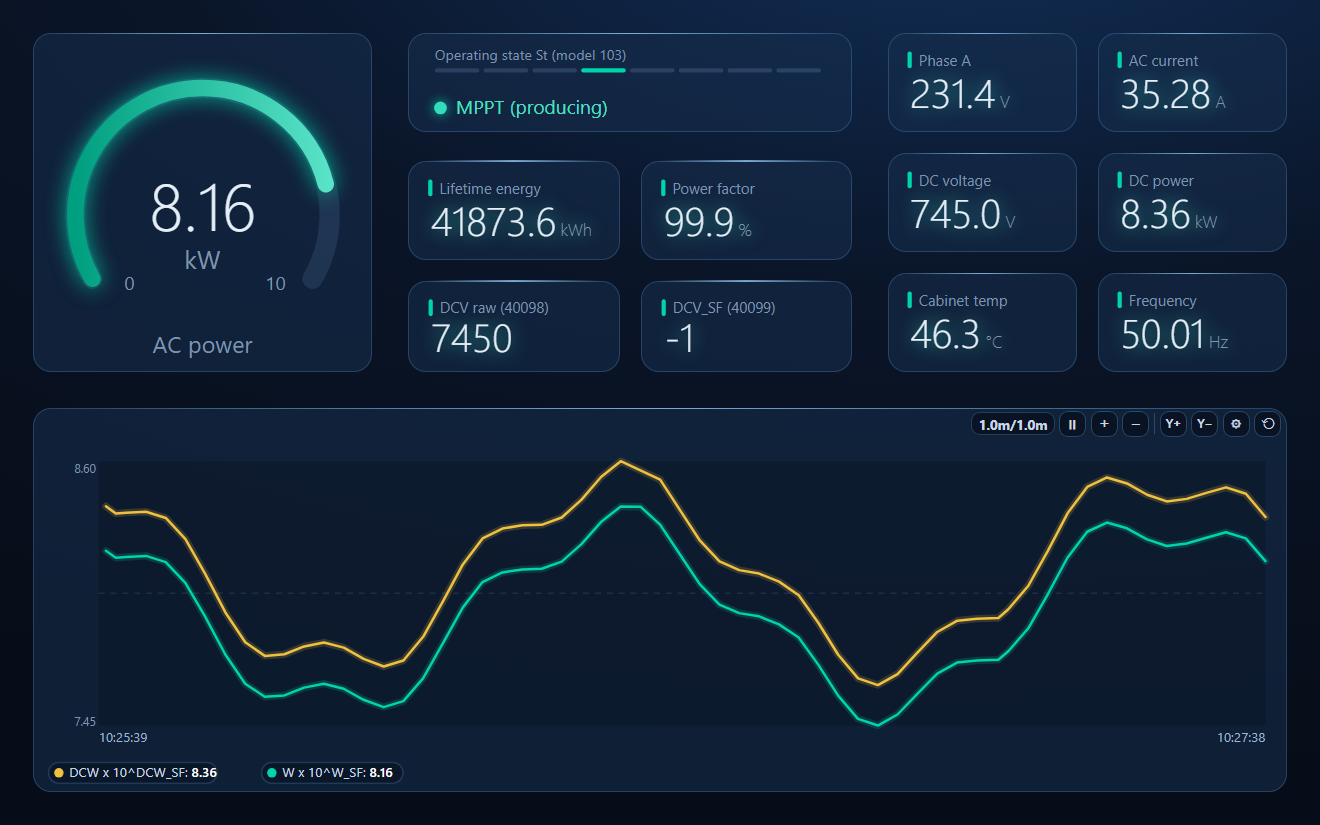
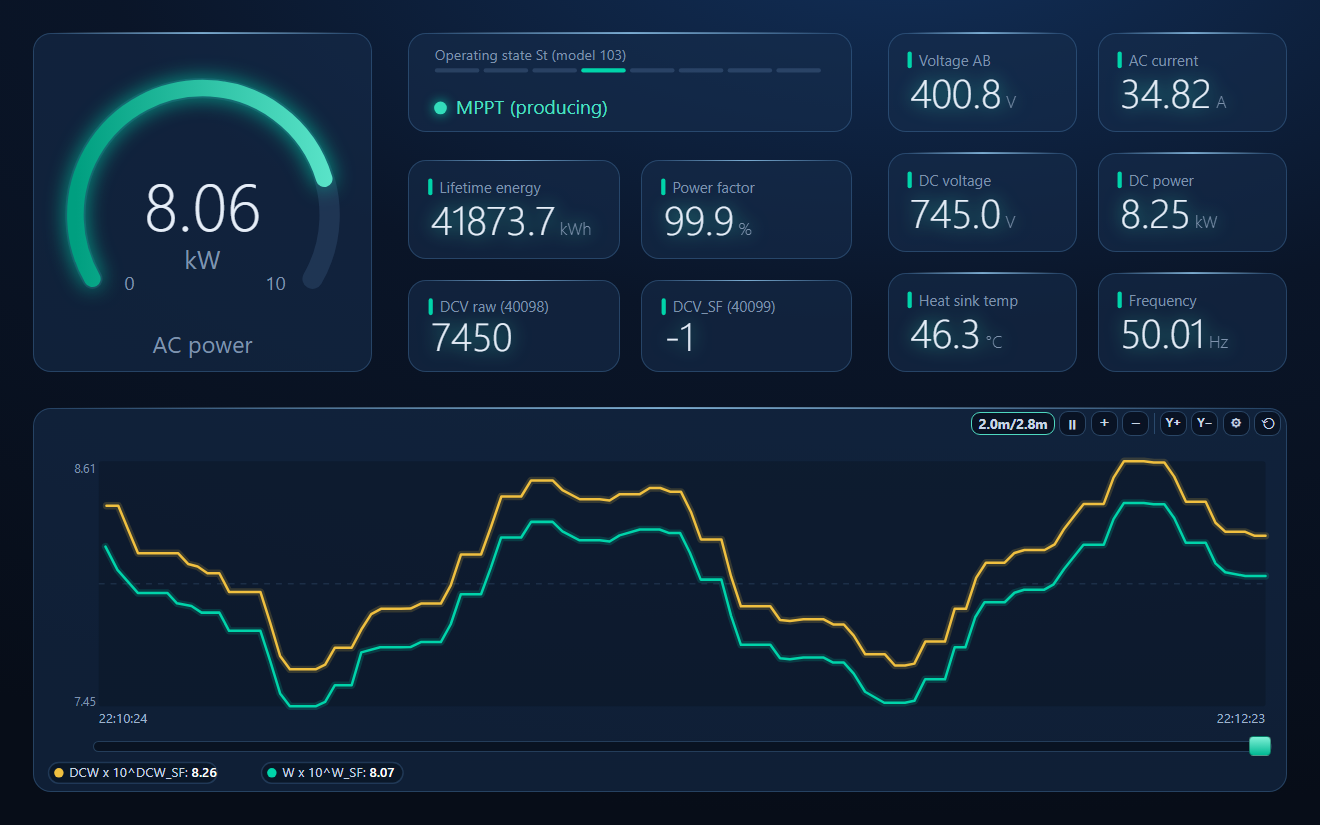
SunSpec page: dashboard picture reshot in Pro 1.9.7 with the current workspace - cards Voltage AB (40076) and Heat sink temp (40103) instead of Phase A and Cabinet temp; alt text says so; dateModified and sitemap lastmod 2026-11-04
- Simulated inverter in SolarEdge's layout (SunSpec technical note v2.7): line voltages at 40076-40078, TmpSnk at 40103; TmpCab 40102 and the split-phase-only phase voltages 40079-40081 read "not implemented". Caption numbers (7450, -1, 745.0 V) unchanged.
- Overlap check on all 13 elements: none; no stale elements.

diff --git a/sunspec-modbus-sma-fronius-solaredge.html b/sunspec-modbus-sma-fronius-solaredge.html
@@ -45,7 +45,7 @@
   "url": "https://modbusmanager.com/sunspec-modbus-sma-fronius-solaredge.html",
   "image": "https://modbusmanager.com/og-sunspec.png",
   "datePublished": "2026-10-18",
-  "dateModified": "2026-11-03",
+  "dateModified": "2026-11-04",
   "author": {
     "@type": "Organization",
     "name": "ModbusManager",
@@ -348,7 +348,7 @@ nav .nav-links.open .nd-head{padding:0.45rem 0 0.1rem}
 
   <figure style="margin:1.8rem 0;border:2px solid var(--ink);border-radius:3px;overflow:hidden;background:var(--ink)">
     <img src="/sunspec-dashboard.png" width="1320" height="825" loading="lazy" decoding="async"
-         alt="ModbusManager Pro dashboard for a SunSpec three-phase inverter: AC power gauge, operating state MPPT, lifetime energy, power factor, the raw DC voltage register 7450 and its scale factor -1 giving 745.0 V, phase voltage, AC current, DC voltage and power, cabinet temperature, frequency and a DC versus AC power trend"
+         alt="ModbusManager Pro dashboard for a SunSpec three-phase inverter: AC power gauge, operating state MPPT, lifetime energy, power factor, the raw DC voltage register 7450 and its scale factor -1 giving 745.0 V, line voltage AB, AC current, DC voltage and power, heat sink temperature, frequency and a DC versus AC power trend"
          style="width:100%;height:auto;display:block">
     <figcaption style="font-family:'IBM Plex Mono',monospace;font-size:.68rem;color:var(--steel);padding:.6rem .9rem;background:var(--ink)">
       The free workspace below, reading a simulated SunSpec inverter in SolarEdge's layout. The two middle cards show the raw DC voltage register (7450) and its scale factor (&minus;1): 745.0 V on the card beside them. Every value on the page is raw &times; 10<sup>SF</sup>.
